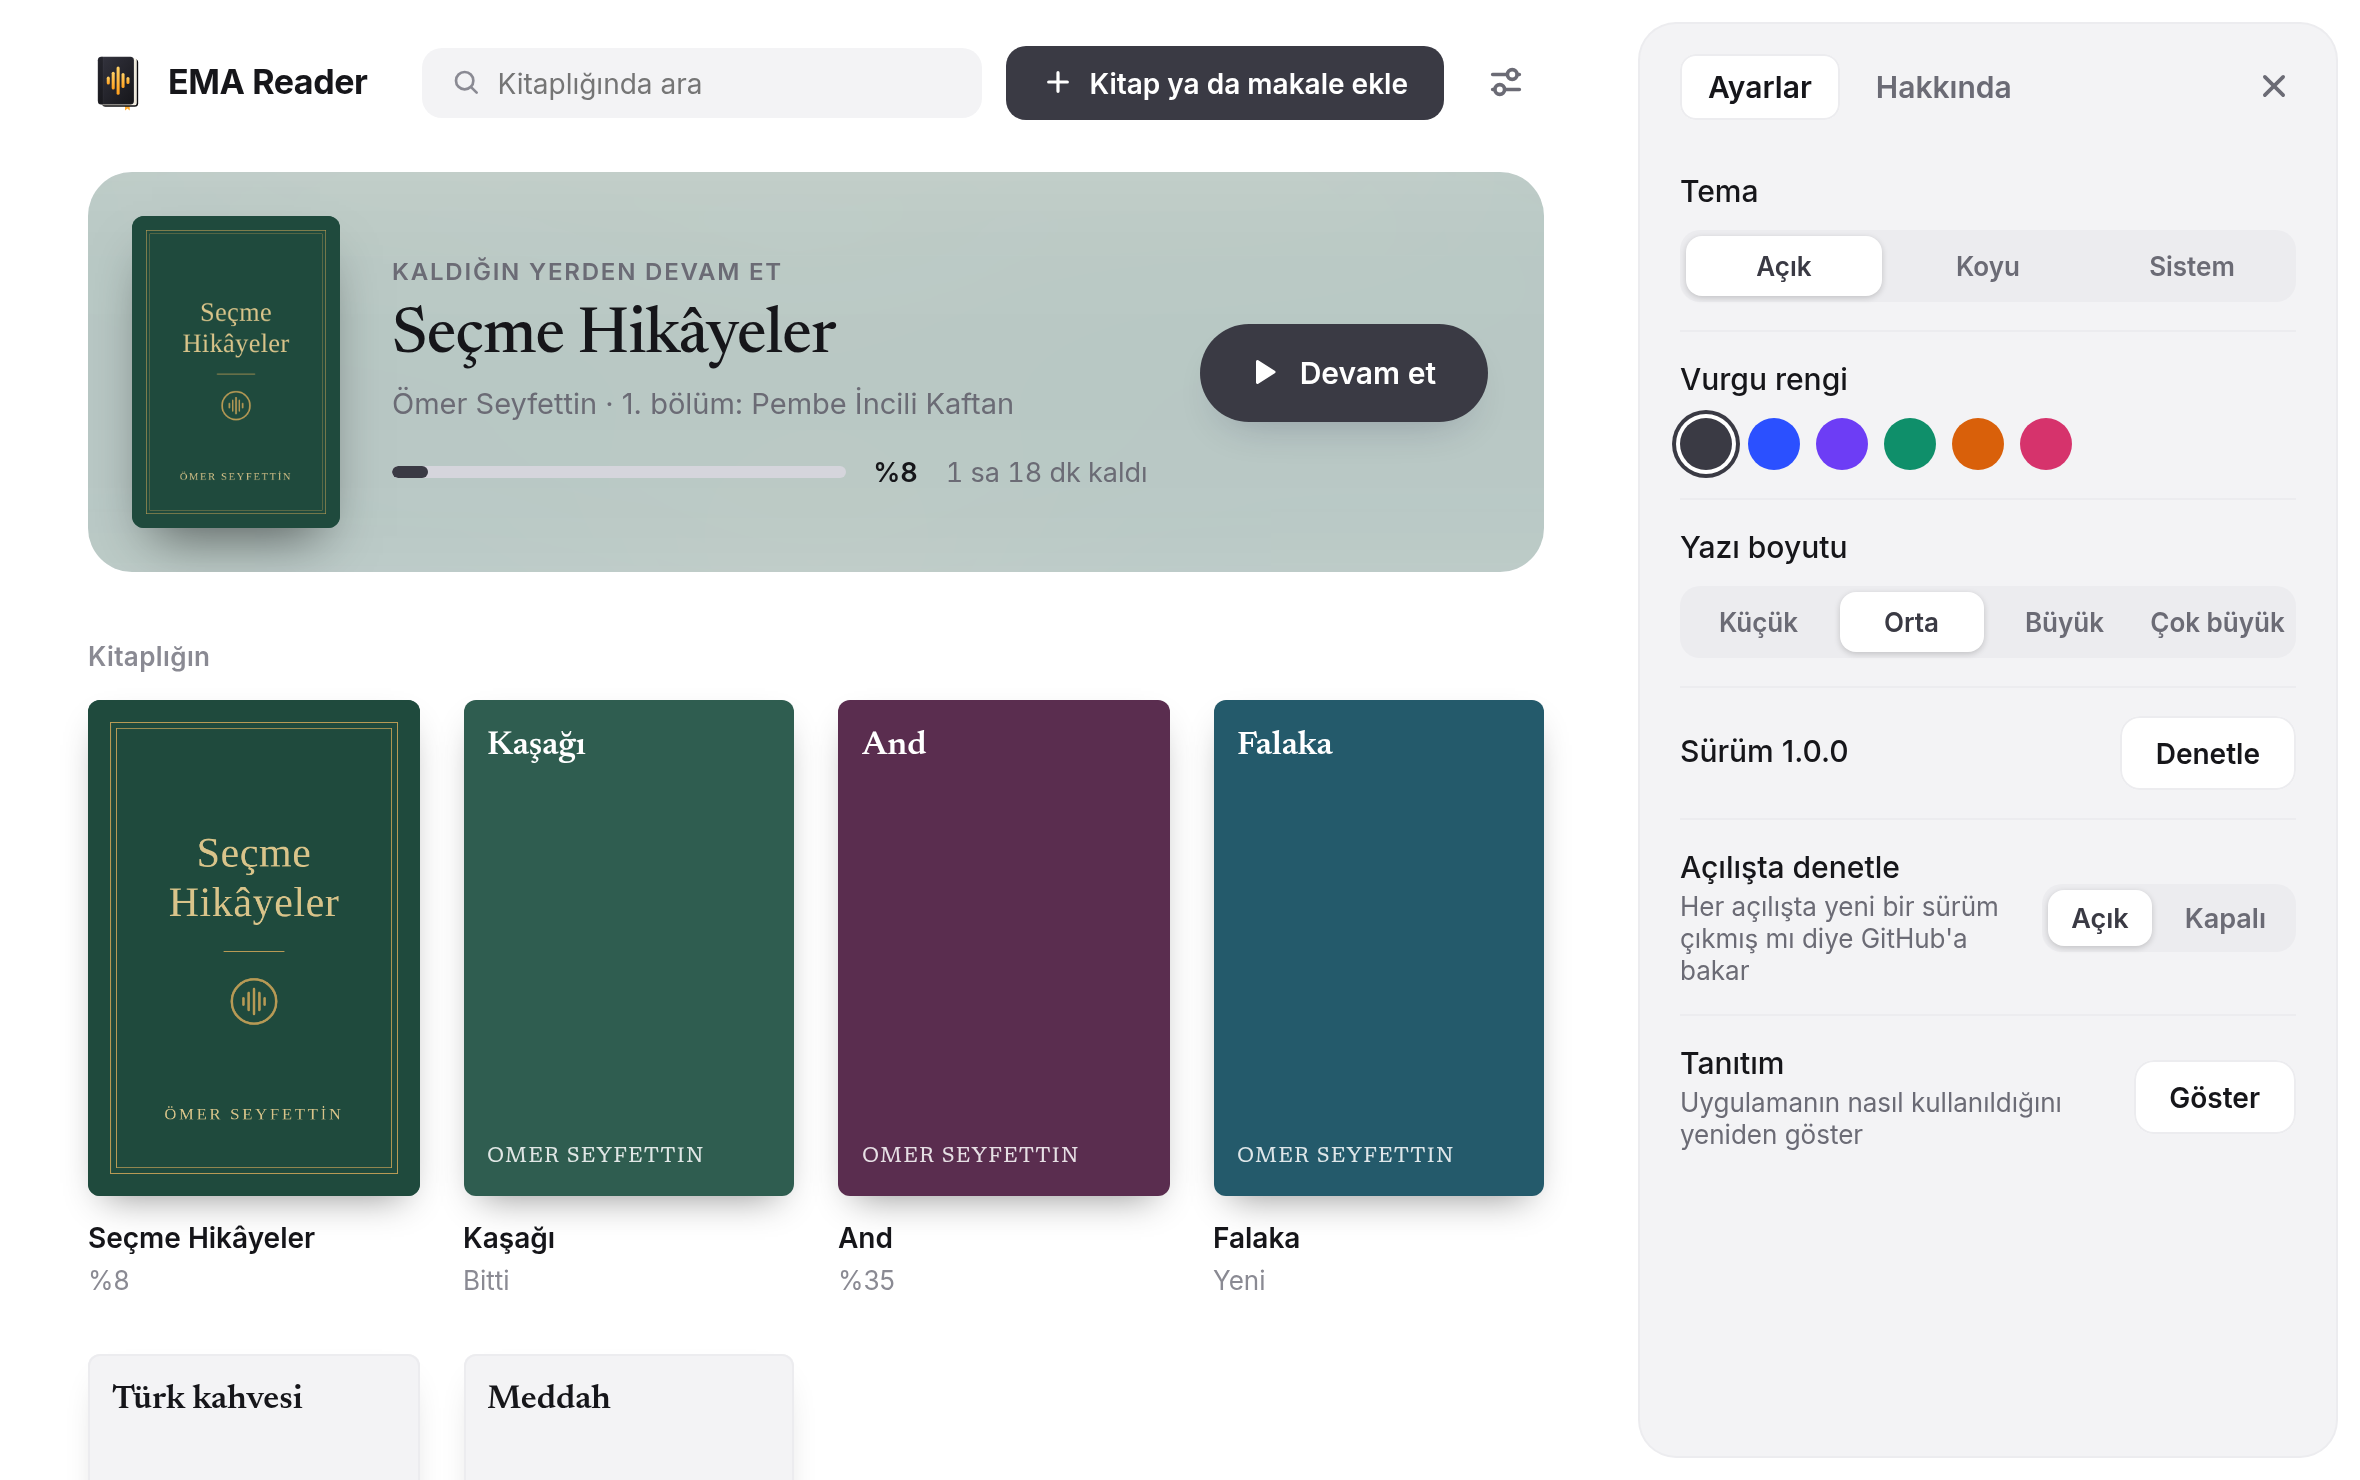
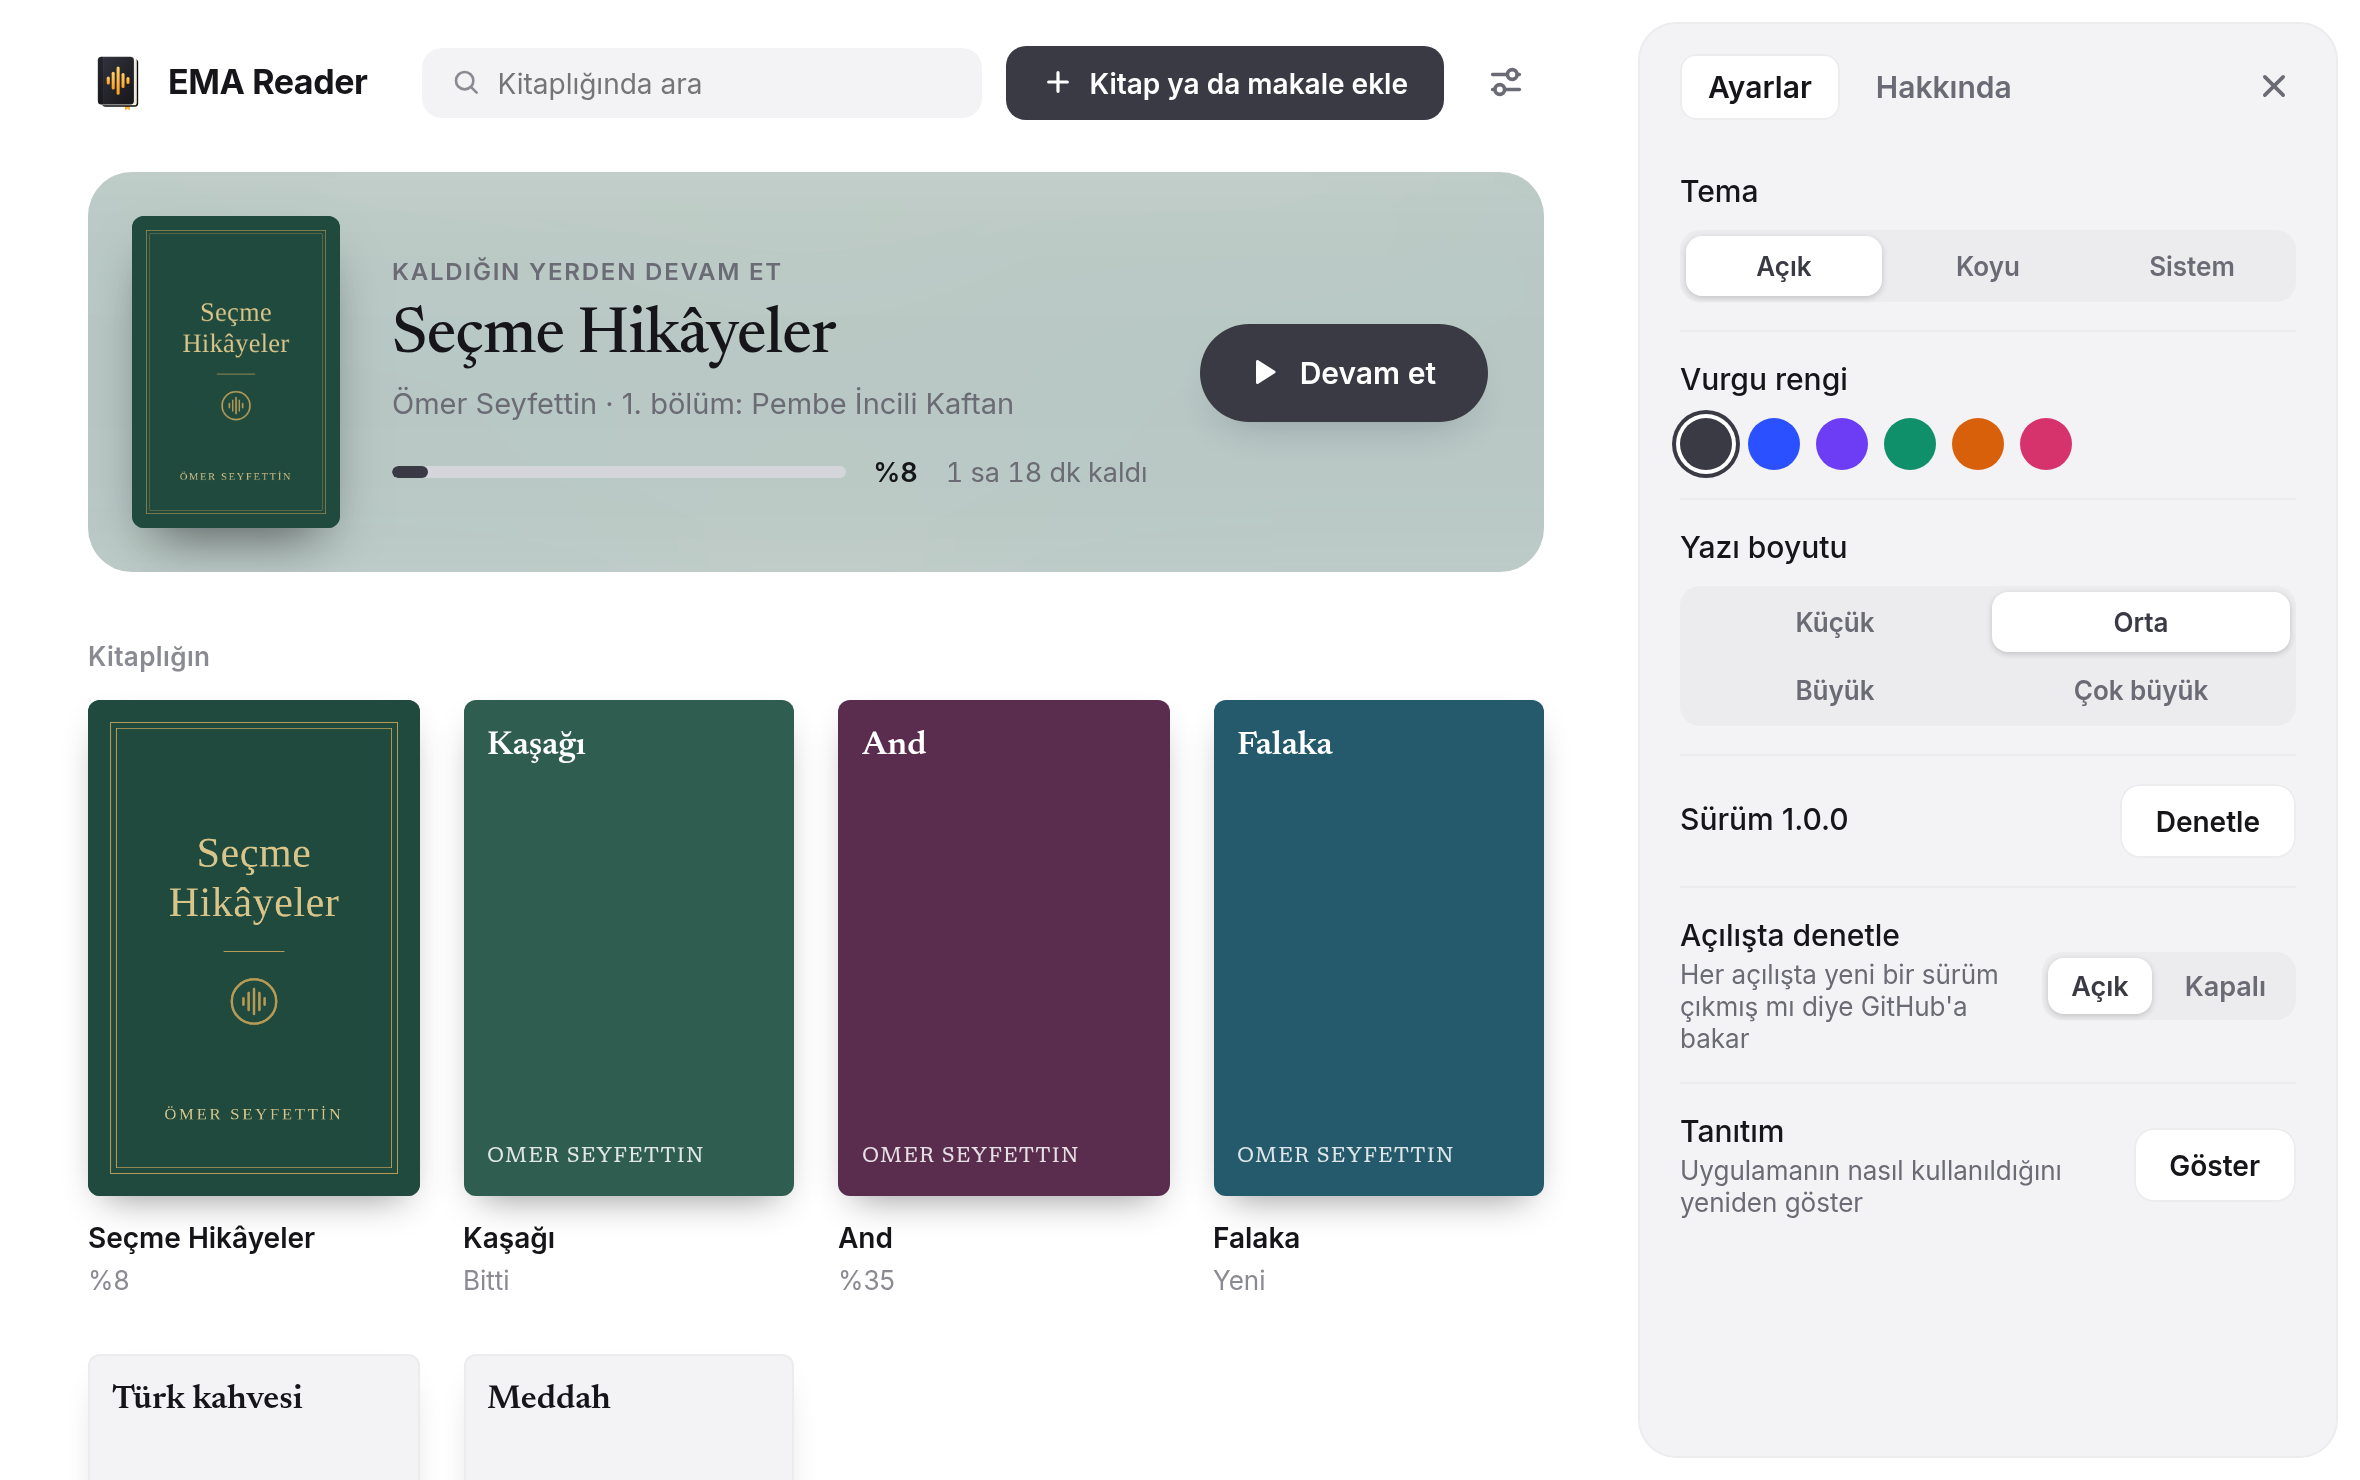
Keep the continue card still and give the text sizes two rows

diff --git a/static/index.html b/static/index.html
@@ -54,13 +54,11 @@
 
   /* continue where you left off: the book last listened to, on a card lit by its own cover */
   .resume { position: relative; overflow: hidden; display: flex; align-items: center; gap: 26px; margin-top: 26px; padding: 22px 28px 22px 22px; border-radius: 22px; background: var(--soft);
-            cursor: pointer; transition: transform .2s cubic-bezier(.2, .8, .2, 1), box-shadow .2s; }
-  .resume:hover, .resume:focus-visible { transform: translateY(-2px); box-shadow: 0 16px 34px -18px var(--shade); }
+            cursor: pointer; }
   .resume .glow { position: absolute; inset: -40%; background: var(--glow) center / cover; filter: blur(60px) saturate(1.4); opacity: .26; pointer-events: none; }
   :root[data-theme="dark"] .resume .glow { opacity: .34; }
   .resume > :not(.glow) { position: relative; }
-  .resume .cover { width: 104px; padding: 11px 9px; flex: none; box-shadow: 0 14px 26px -10px rgba(0,0,0,.55); transition: transform .25s cubic-bezier(.2, .8, .2, 1); }
-  .resume:hover .cover { transform: rotate(-2.5deg) scale(1.03); }
+  .resume .cover { width: 104px; padding: 11px 9px; flex: none; box-shadow: 0 14px 26px -10px rgba(0,0,0,.55); }
   .resume .cover strong { font-size: 12px; }
   .resume .cover small { display: none; }
   .resume .info { flex: 1; min-width: 0; }
@@ -71,8 +69,7 @@
   .resume .bar .track { flex: 1; height: 6px; border-radius: 3px; background: var(--strong-line); }
   .resume .bar .track i { border-radius: 3px; }
   .resume .bar b { color: var(--ink); font-weight: 600; }
-  .resume .go { flex: none; gap: 10px; padding: 15px 26px 15px 22px; box-shadow: 0 10px 22px -12px var(--shade); transition: transform .2s cubic-bezier(.2, .8, .2, 1); }
-  .resume:hover .go { transform: scale(1.05); opacity: 1; }
+  .resume .go { flex: none; gap: 10px; padding: 15px 26px 15px 22px; box-shadow: 0 10px 22px -12px var(--shade); }
   .track { height: 4px; border-radius: 2px; background: var(--line); overflow: hidden; }
   .track i { display: block; height: 100%; background: var(--accent); border-radius: 2px; }
 
@@ -232,6 +229,7 @@
   .panel .field.tall { flex-direction: column; align-items: stretch; gap: 10px; }
   .panel .field.tall .choice { display: grid; grid-auto-flow: column; grid-auto-columns: 1fr; }
   .panel .field.tall .choice button { padding: 7px 2px; font-size: 13px; white-space: nowrap; }
+  .panel #set-size { grid-auto-flow: row; grid-template-columns: 1fr 1fr; }   /* four sizes: two rows, so that "Çok büyük" has room in any font */
   .panel .tabs button.on { background: var(--surface); box-shadow: inset 0 0 0 1px var(--line); }
   .panel .about dl div { flex-direction: column; gap: 2px; }
   .panel .about dt { width: auto; font-size: 13px; }
